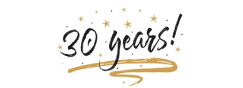
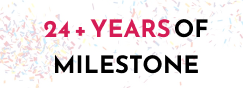
add

diff --git a/index.html b/index.html
@@ -58,7 +58,7 @@
                                         <li><a href="event.html">Arranagements / Entertainments</a></li>
                                         <li><a href="eventone.html">Corporate Events</a></li>
                                         <li><a href="thebrandevents.html">The Brand Show</a></li>
-                                        <li><a href="eventshows.html">International Shows</a></li>
+                                        <li><a href="eventshows.html">Entertainment Shows</a></li>
                                     </ul>
                                     </li>
                                     <li class=""><a href="client.html" style="margin-right: 10px;">CLIENTS</a>
@@ -219,7 +219,7 @@
                             <div class="author-box">
                                 <div class="inner-box">
                                     <div class="sign animate-2"><img src="images/resource/three.png" alt="Signature"></div>
-                                    <div class="designation animate-3">30+ Years Of Unforgettable Moments</div>
+                                    <div class="designation animate-3">24+ Years Of Milestone</div>
                                     <div class="line animate-x"><img src="images/icons/icon-line.png" alt="Line"></div>
                                 </div>
                             </div>
@@ -252,7 +252,7 @@
                             <div class="author-box">
                                 <div class="inner-box">
                                     <div class="sign animate-2"><img src="images/resource/three.png" alt="Signature"></div>
-                                    <div class="designation animate-3">30+ Years Of Unforgettable Moments</div>
+                                    <div class="designation animate-3">24+ Years Of Milestone</div>
                                     <div class="line animate-x"><img src="images/icons/icon-line.png" alt="Line"></div>
                                 </div>
                             </div>
@@ -283,7 +283,7 @@
                             <div class="author-box">
                                 <div class="inner-box">
                                     <div class="sign animate-2"><img src="images/resource/three.png" alt="Signature"></div>
-                                    <div class="designation animate-3">30+ Years Of Unforgettable Moments</div>
+                                    <div class="designation animate-3">24+ Years Of Milestone</div>
                                     <div class="line animate-x"><img src="images/icons/icon-line.png" alt="Line"></div>
                                 </div>
                             </div>
@@ -330,7 +330,7 @@
                     </div>
                     <div class="speaker-box">
                         
-                        <div class="count">30+</div>
+                        <div class="count">24+</div>
                         <div class="text">Years <br> Experience</div>
                     </div>
                 </div>
@@ -344,9 +344,9 @@
                 </div>
                 <div class="content-box wow fadeInRight" data-wow-delay="200ms">
                     <div class="sec-title">
-                        <span class="sub-title">About Our Event</span>
+                        <span class="sub-title">our milestone</span>
                         <h3 class="text-reveal-anim">Uniting Dreams <span>  Creating Memories </span></h3>
-                        <div class="text text-anim" style="color: black;text-align: justify;">With 30+ years of expertise, La Twisters transforms weddings and events into unforgettable experiences.From our first step with Britannia to serving 225+ corporate clients, we continue to craft celebrations that inspire. Our journey is built on passion, precision, and a promise to make every occasion truly extraordinary.At La Twisters, we blend creativity with flawless execution — from intimate gatherings to grand corporate galas. Our team of seasoned professionals ensures every detail reflects your vision, personality, and purpose.</div>
+                        <div class="text text-anim" style="color: black;text-align: justify;">With 24+ years of expertise, La Twisters transforms weddings and events into unforgettable experiences.From our first step with Britannia to serving 225+ corporate clients, we continue to craft celebrations that inspire. Our journey is built on passion, precision, and a promise to make every occasion truly extraordinary.At La Twisters, we blend creativity with flawless execution — from intimate gatherings to grand corporate galas. Our team of seasoned professionals ensures every detail reflects your vision, personality, and purpose.</div>
                     </div>
                     <div class="btn-box">
                         <a href="event.html" class="theme-btn btn-style-one icon-btn bg-yellow"><i class="icon flaticon-tickets"></i><span class="btn-title">Connect US</span></a>
@@ -359,7 +359,7 @@
                     <figure class="image"><img src="images/resource/abtnone.jpg" alt="Image"></figure>
                     <div class="speaker-box">
                         <i class="icon flaticon-mic"></i>
-                        <div class="count">30+</div>
+                        <div class="count">24+</div>
                         <div class="text">Years <br> Experience</div>
                     </div>
                 </div>
@@ -490,7 +490,7 @@
                             
                         </div>
                         <div class="info-box">
-                            <h4 class="name"><a href="event.html">International Show</a></h4>
+                            <h4 class="name"><a href="event.html">Entertainment Show</a></h4>
                             <span class="designation"> - La Twisters </span>
                         </div>
                     </div>
@@ -840,6 +840,10 @@
         </div>
 	</section>
 	<!-- End Event Section -->
+
+
+
+    <h2 style="text-align: center;margin-bottom: 20px;color: #D51C55;">PHOTO SHOOT </h2>
 
 	<!-- Gallery Section -->
     <section class="gallery-section p-0">
@@ -1309,8 +1313,8 @@
                             <div class="client-block">
                                 <div class="inner-box">
                                     <a href="#" class="image">
-                                        <img src="images/clients/logoseven.png" alt="Image">
-                                        <img src="images/clients/logoseven.png" alt="Image">
+                                        <img src="images/clients/logoro.png" alt="Image">
+                                        <img src="images/clients/logoro.png" alt="Image">
                                     </a>
                                 </div>
                             </div>
@@ -1768,7 +1772,7 @@
                     <!-- Footer COlumn -->
                     <div class="footer-column col-xl-6 col-lg-12 col-md-12 col-sm-12">
                         <div class="footer-widget gallery-widget">
-                            <h3 class="widget-title">Gallery</h3>
+                            <h3 class="widget-title">Photo Shoot</h3>
                             <div class="widget-content">
 
                                 <div class="swiper gallery-swiper">

diff --git a/about.html b/about.html
@@ -55,7 +55,7 @@
                                         <li><a href="event.html">Arranagements / Entertainments</a></li>
                                         <li><a href="eventone.html">Corporate Events</a></li>
                                         <li><a href="thebrandevents.html">The Brand Show</a></li>
-                                        <li><a href="eventshows.html">International Shows</a></li>
+                                        <li><a href="eventshows.html">Entertainment Shows</a></li>
                                     </ul>
                                     </li>
                                     <li class=""><a href="client.html" style="margin-right: 10px;">CLIENTS</a>
@@ -241,7 +241,7 @@
                     </div>
                     <div class="speaker-box">
                         
-                        <div class="count">30+</div>
+                        <div class="count">24+</div>
                         <div class="text">Years <br> Experience</div>
                     </div>
                 </div>
@@ -255,7 +255,7 @@
                 </div>
                 <div class="content-box wow fadeInRight" data-wow-delay="200ms">
                     <div class="sec-title">
-                        <span class="sub-title">About Event</span>
+                        <span class="sub-title">Our Milestone</span>
                         <h3 class="text-reveal-anim">Uniting Dreams,<span> Creating Memories </span></h3>
                         <div class="text text-anim" style="color: black;text-align: justify;">La Twisters specializes in luxury destination weddings and seamless international wedding arrangements. With over 30 years of expertise, we have been transforming weddings into unforgettable, globally celebrated experiences. From our first milestone with Britannia to partnering with 225+ corporate clients, we continue to craft celebrations that inspire. While destination weddings remain our hallmark, we also curate a wide range of premium events—including corporate functions and social gatherings—delivering creativity, culture, and precision every step of the way. Our versatile service portfolio reflects our commitment to redefining event excellence—one celebration at a time.</div>
                     </div>
@@ -270,7 +270,7 @@
                     <figure class="image"><img src="images/resource/mainabtn.png" alt="Image"></figure>
                     <div class="speaker-box">
                         
-                        <div class="count">30+</div>
+                        <div class="count">24+</div>
                         <div class="text">Years <br> Experience</div>
                     </div>
                 </div>
@@ -851,7 +851,7 @@
                     <!-- Footer COlumn -->
                     <div class="footer-column col-xl-6 col-lg-12 col-md-12 col-sm-12">
                         <div class="footer-widget gallery-widget">
-                            <h3 class="widget-title">Gallery</h3>
+                            <h3 class="widget-title">Photo Shoot</h3>
                             <div class="widget-content">
 
                                 <div class="swiper gallery-swiper">

diff --git a/client.html b/client.html
@@ -56,7 +56,7 @@
                                         <li><a href="event.html">Arranagements / Entertainments</a></li>
                                         <li><a href="eventone.html">Corporate Events</a></li>
                                         <li><a href="thebrandevents.html">The Brand Show</a></li>
-                                        <li><a href="eventshows.html">International Shows</a></li>
+                                        <li><a href="eventshows.html">Entertainment Shows</a></li>
                                     </ul>
                                     </li>
                                     <li class="current"><a href="client.html" style="margin-right: 10px;">CLIENTS</a>
@@ -446,8 +446,8 @@
                 <div class="client-block-two col-lg-3 col-md-4 col-sm-6 wow fadeInUp">
                     <div class="inner-box">
                         <a href="#" class="image">
-                            <img src="images/clients/logooutseven.png" alt="Image">
-                            <img src="images/clients/logooutseven.png" alt="Image">
+                            <img src="images/clients/logoro.png" alt="Image">
+                            <img src="images/clients/logoro.png" alt="Image">
                         </a>
                     </div>
                 </div>
@@ -530,7 +530,7 @@
                     <!-- Footer COlumn -->
                     <div class="footer-column col-xl-6 col-lg-12 col-md-12 col-sm-12">
                         <div class="footer-widget gallery-widget">
-                            <h3 class="widget-title">Gallery</h3>
+                            <h3 class="widget-title">Photo Shoot</h3>
                             <div class="widget-content">
 
                                 <div class="swiper gallery-swiper">

diff --git a/event.html b/event.html
@@ -56,7 +56,7 @@
                                         <li><a href="event.html">Arranagements / Entertainments</a></li>
                                         <li><a href="eventone.html">Corporate Events</a></li>
                                         <li><a href="thebrandevents.html">The Brand Show</a></li>
-                                        <li><a href="eventshows.html">International Shows</a></li>
+                                        <li><a href="eventshows.html">Entertainment Shows</a></li>
                                     </ul>
                                     </li>
                                     <li class=""><a href="client.html" style="margin-right: 10px;">CLIENTS</a>
@@ -1434,7 +1434,7 @@
                     <!-- Footer COlumn -->
                     <div class="footer-column col-xl-6 col-lg-12 col-md-12 col-sm-12">
                         <div class="footer-widget gallery-widget">
-                            <h3 class="widget-title">Gallery</h3>
+                            <h3 class="widget-title">Photo Shoot</h3>
                             <div class="widget-content">
 
                                 <div class="swiper gallery-swiper">

diff --git a/eventone.html b/eventone.html
@@ -56,7 +56,7 @@
                                         <li><a href="event.html">Arranagements / Entertainments</a></li>
                                         <li><a href="eventone.html">Corporate Events</a></li>
                                         <li><a href="thebrandevents.html">The Brand Show</a></li>
-                                        <li><a href="eventshows.html">International Shows</a></li>
+                                        <li><a href="eventshows.html">Entertainment Shows</a></li>
                                     </ul>
                                     </li>
                                     <li class=""><a href="client.html" style="margin-right: 10px;">CLIENTS</a>
@@ -1116,7 +1116,7 @@
                     <!-- Footer COlumn -->
                     <div class="footer-column col-xl-6 col-lg-12 col-md-12 col-sm-12">
                         <div class="footer-widget gallery-widget">
-                            <h3 class="widget-title">Gallery</h3>
+                            <h3 class="widget-title">Photo Shoot</h3>
                             <div class="widget-content">
 
                                 <div class="swiper gallery-swiper">

diff --git a/eventshows.html b/eventshows.html
@@ -56,7 +56,7 @@
                                         <li><a href="event.html">Arranagements / Entertainments</a></li>
                                         <li><a href="eventone.html">Corporate Events</a></li>
                                         <li><a href="thebrandevents.html">The Brand Show</a></li>
-                                        <li><a href="eventshows.html">International Shows</a></li>
+                                        <li><a href="eventshows.html">Entertainment Shows</a></li>
                                     </ul>
                                     </li>
                                     <li class=""><a href="client.html" style="margin-right: 10px;">CLIENTS</a>
@@ -1413,7 +1413,7 @@
                     <!-- Footer COlumn -->
                     <div class="footer-column col-xl-6 col-lg-12 col-md-12 col-sm-12">
                         <div class="footer-widget gallery-widget">
-                            <h3 class="widget-title">Gallery</h3>
+                            <h3 class="widget-title">Photo Shoot</h3>
                             <div class="widget-content">
 
                                 <div class="swiper gallery-swiper">

diff --git a/thebrandevents.html b/thebrandevents.html
@@ -56,7 +56,7 @@
                                         <li><a href="event.html">Arranagements / Entertainments</a></li>
                                         <li><a href="eventone.html">Corporate Events</a></li>
                                         <li><a href="thebrandevents.html">The Brand Show</a></li>
-                                        <li><a href="eventshows.html">International Shows</a></li>
+                                        <li><a href="eventshows.html">Entertainment Shows</a></li>
                                     </ul>
                                     </li>
                                     <li class=""><a href="client.html" style="margin-right: 10px;">CLIENTS</a>
@@ -1178,7 +1178,7 @@
                     <!-- Footer COlumn -->
                     <div class="footer-column col-xl-6 col-lg-12 col-md-12 col-sm-12">
                         <div class="footer-widget gallery-widget">
-                            <h3 class="widget-title">Gallery</h3>
+                            <h3 class="widget-title">Photo Shoot</h3>
                             <div class="widget-content">
 
                                 <div class="swiper gallery-swiper">

diff --git a/contact.html b/contact.html
@@ -56,7 +56,7 @@
                                         <li><a href="event.html">Arranagements / Entertainments</a></li>
                                         <li><a href="eventone.html">Corporate Events</a></li>
                                         <li><a href="thebrandevents.html">The Brand Show</a></li>
-                                        <li><a href="eventshows.html">International Shows</a></li>
+                                        <li><a href="eventshows.html">Entertainment Shows</a></li>
                                     </ul>
                                     </li>
                                     <li class=""><a href="client.html" style="margin-right: 10px;">CLIENTS</a>
@@ -445,7 +445,7 @@
                     <!-- Footer COlumn -->
                     <div class="footer-column col-xl-6 col-lg-12 col-md-12 col-sm-12">
                         <div class="footer-widget gallery-widget">
-                            <h3 class="widget-title">Gallery</h3>
+                            <h3 class="widget-title">Photo Shoot</h3>
                             <div class="widget-content">
 
                                 <div class="swiper gallery-swiper">

diff --git a/css/master.css b/css/master.css
@@ -5649,8 +5649,8 @@ Scroll To Top style
   font-size: 16px;
   line-height: 1em;
   font-weight: 400;
-  font-family: var(--fa-style-family, "Font Awesome 6 Pro");
-  content: "\f130";
+ 
+ 
   display: none;
 }
 .rtl .sec-title .sub-title:before {
@@ -5664,8 +5664,7 @@ Scroll To Top style
   font-size: 16px;
   line-height: 1em;
   font-weight: 400;
-  font-family: var(--fa-style-family, "Font Awesome 6 Pro");
-  content: "\f130";
+
 }
 .rtl .sec-title .sub-title:after {
   right: auto;
